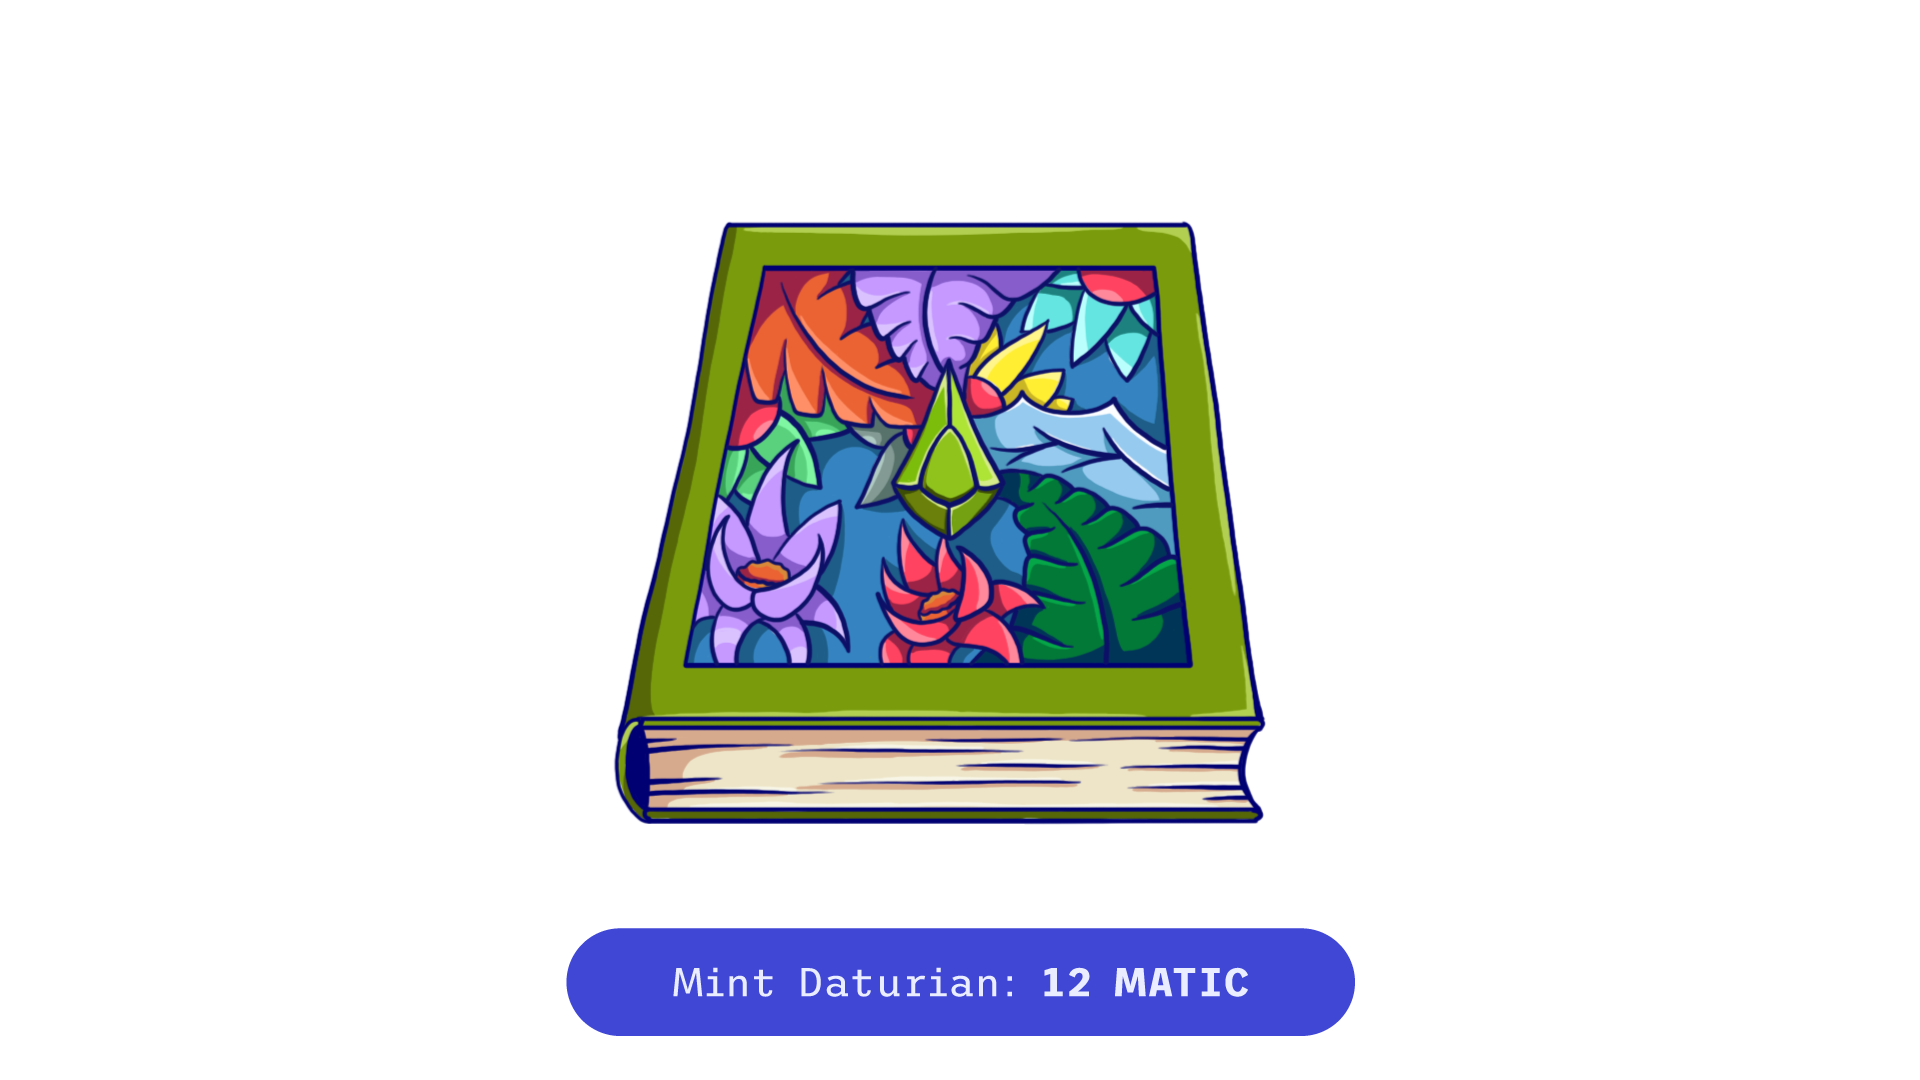
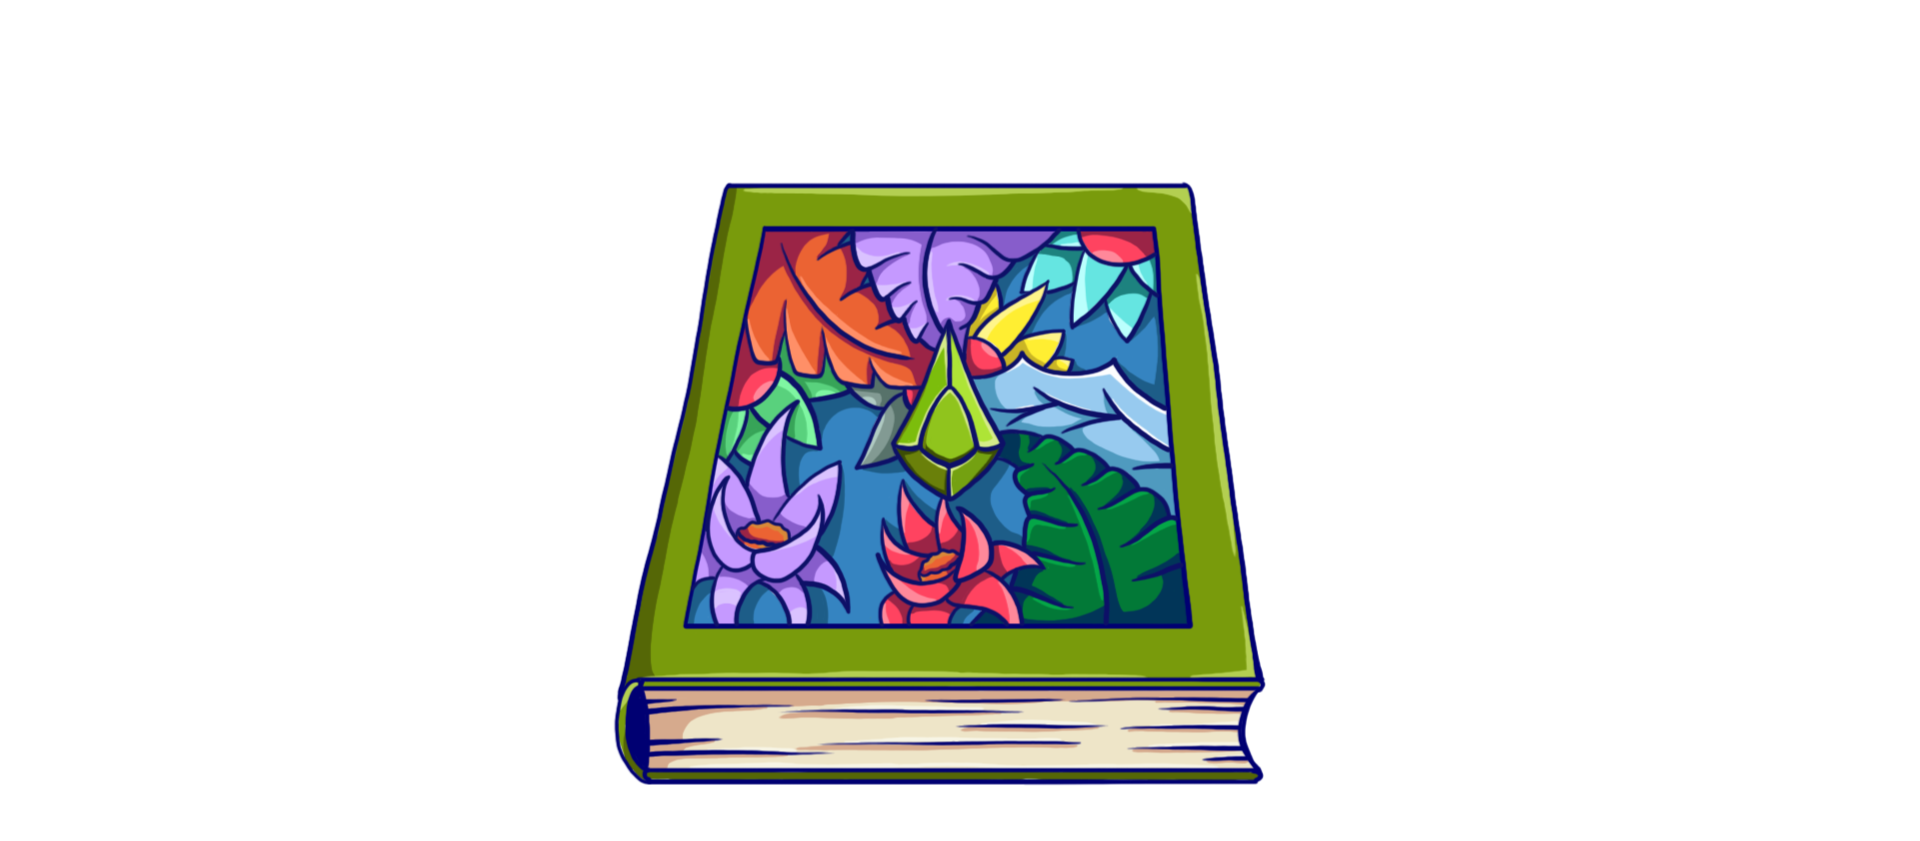
mint page css

Changed region(s): [[0.2812, 0.1855, 0.7188, 0.9584]]

diff --git a/src/templates/MintDapp.tsx b/src/templates/MintDapp.tsx
@@ -25,9 +25,7 @@ const MintDapp = () => {
   const data = useAppSelector((state: any) => state.data);
   const [claimingNft, setClaimingNft] = useState(false);
   const [connectedState, setConnectedState] = useState(false);
-  const [feedback, setFeedback] = useState(
-    `Click "MINT" to mint your DATURIANS NFT.`
-  );
+  const [feedback, setFeedback] = useState(`Price: 12 MATIC`);
   const [mintAmount, setMintAmount] = useState(1);
   const [isHovering, setIsHovered] = useState(false);
 
@@ -72,7 +70,7 @@ const MintDapp = () => {
     const totalGasLimit = String(gasLimit * mintAmount);
     const maxPriorityFee = String(MintConfig.MAX_PRIORITY_FEE);
     const maxFeeGas = String(MintConfig.MAX_FEE_PER_GAS);
-    setFeedback(`Minting your ${MintConfig.NFT_NAME}...`);
+    setFeedback(`Minting ${MintConfig.NFT_NAME}...`);
     setClaimingNft(true);
     blockchain.smartContract.methods
       .mint(mintAmount)
@@ -85,13 +83,13 @@ const MintDapp = () => {
         value: totalCostWei,
       })
       .once('error', (_err: any) => {
-        setFeedback('Oopsy, something went wrong! Please try again.');
+        setFeedback('Oopsy, doopsy');
         setClaimingNft(false);
       })
       .then((receipt: any) => {
         console.log(receipt);
         setFeedback(
-          `Congrats, the ${MintConfig.NFT_NAME} is yours! go visit Opensea.io to view it.`
+          `Congrats, the ${MintConfig.NFT_NAME} is yours! Visit Opensea.io to view it.`
         );
         setClaimingNft(false);
         dispatch(fetchData(blockchain.account));
@@ -172,34 +170,48 @@ const MintDapp = () => {
                 alt="book"
                 className="book"
                 // src={logImages[0]}
-                onClick={(e) => {
-                  if (connectedState === false) {
-                    setIsHovered(true);
-                    e.preventDefault();
-                    web3Modal.clearCachedProvider();
-                    web3Modal
-                      .connect()
-                      .then((connectedProvider) => {
-                        console.log(connectedProvider);
-                        dispatch(connect(connectedProvider));
-                        getData();
-                        setConnectedState(true);
-                      })
-                      .catch((err: any) => {
-                        console.log(err);
-                        setFeedback(
-                          'It seems that user closed the WalletConnect pop-up.'
-                        );
-                        setIsHovered(false);
-                        setConnectedState(false);
-                        setClaimingNft(false);
-                      });
-                  } else {
-                    e.preventDefault();
-                    console.log('already connected');
-                  }
-                }}
               />
+
+              {!connectedState ? (
+                <div className="flex justify-center mint-state">
+                  <button
+                    className="font-bold mt-4 bg-dark text-white rounded shadow-lg mint-button"
+                    onClick={(e) => {
+                      if (connectedState === false) {
+                        setIsHovered(true);
+                        e.preventDefault();
+                        web3Modal.clearCachedProvider();
+                        web3Modal
+                          .connect()
+                          .then((connectedProvider) => {
+                            console.log(connectedProvider);
+                            dispatch(connect(connectedProvider));
+                            getData();
+                            setConnectedState(true);
+                          })
+                          .catch((err: any) => {
+                            console.log(err);
+                            setFeedback(
+                              'It seems that user closed the WalletConnect pop-up.'
+                            );
+                            setIsHovered(false);
+                            setConnectedState(false);
+                            setClaimingNft(false);
+                          });
+                      } else {
+                        e.preventDefault();
+                        console.log('already connected');
+                      }
+                    }}
+                  >
+                    Connect wallet
+                  </button>
+                </div>
+              ) : (
+                <div className="flex justify-center dingles">
+                  <button></button>
+                </div>
+              )}
             </a>
           </div>
           <div className="responsive-wrapper">
@@ -233,32 +245,34 @@ const MintDapp = () => {
                       ) : null}
                     </div>
                   ) : (
-                    <div className="flex justify-center">
-                      <p className="mint-description">{feedback}</p>
-                      <div>
-                        <button
-                          className="btn btn-regular mint-styled-button-round"
-                          disabled={!!claimingNft}
-                          onClick={(e) => {
-                            e.preventDefault();
-                            decrementMintAmount();
-                          }}
-                        >
-                          -
-                        </button>
-                        <p className="mint-description">{mintAmount}</p>
-                        <button
-                          className="btn btn-regular mint-styled-button-round"
-                          disabled={!!claimingNft}
-                          onClick={(e) => {
-                            e.preventDefault();
-                            incrementMintAmount();
-                          }}
-                        >
-                          +
-                        </button>
+                    <div className="justify-center">
+                      <div className="flex justify-center">
+                        <p className="mint-description">{feedback}</p>
+                        <div className="mint-numbers">
+                          <button
+                            className="btn btn-regular mint-styled-button-round"
+                            disabled={!!claimingNft}
+                            onClick={(e) => {
+                              e.preventDefault();
+                              decrementMintAmount();
+                            }}
+                          >
+                            -
+                          </button>
+                          <p className="mint-description">{mintAmount}</p>
+                          <button
+                            className="btn btn-regular mint-styled-button-round"
+                            disabled={!!claimingNft}
+                            onClick={(e) => {
+                              e.preventDefault();
+                              incrementMintAmount();
+                            }}
+                          >
+                            +
+                          </button>
+                        </div>
                       </div>
-                      <div>
+                      <div className="main-mint-btn">
                         <button
                           className="btn btn-regular mint-styled-button"
                           disabled={!!claimingNft}

diff --git a/src/styles/global.css b/src/styles/global.css
@@ -175,6 +175,8 @@ button:disabled .btn-road-percent-ongoing {
  }
 .floraweek img {
   width: 25%;
+  height: 100%;
+  object-fit: cover;
  }
 .floraweek h1 {
   width: 75%;
@@ -541,6 +543,33 @@ button:disabled .btn-road-percent-ongoing {
 .mobile-merch .btn {
   color: #E9EDFF;
 }
+.mint-number {
+  font-weight: 600;
+}
+.disclaimer {
+  text-align: center;
+  color: #4147d5;
+  margin-top: 20px;
+}
+.mint-button {
+  padding: 10px;
+  width: 40%;
+  margin: auto;
+  display: block;
+  margin-top: 20px;
+}
+.mint-button:hover {
+  background-color: #aafc0d;
+  color: #4147d5;
+}
+.mint-numbers {
+  display: flex;
+  margin-left: 20px;
+}
+.mint-numbers .btn {
+  height: 40px;
+  margin: 10px;
+}
 @media only screen and (max-width: 1023px) {
   div[id^='headlessui-menu-items-'] .btn-hero {
     font-size: 20px !important;
@@ -816,6 +845,16 @@ button:disabled .btn-road-percent-ongoing {
     }
 }
 @media only screen and (max-width: 640px) {
+  .book {
+    width: 70%;
+    transition: width 0.5s;
+    transition: height 0.5s;
+    margin: auto;
+  }
+  .book:hover {
+    width: 69%;
+    transition: .3s ease-in-out;
+  }
   .p-12 {
     padding: 2rem !important;
   }
@@ -1217,9 +1256,15 @@ div. responsive-wrapper @media (min-width: 767px) {
 }
 
 .book {
-  width: 600px;
+  width: 60%;
   transition: width 0.5s;
   transition: height 0.5s;
+  margin: auto;
+  transition: .3s ease-in-out;
+}
+.book:hover {
+  width: 59%;
+  transition: .3s ease-in-out;
 }
 .book   @media (min-width: 767px) {
   width: 700px;
@@ -1230,9 +1275,6 @@ div. responsive-wrapper @media (min-width: 767px) {
   cursor: default;
 }
 
-.book {
-
-}
 /* .book:hover {
   background-position: center;
   background-size: cover;
@@ -1254,6 +1296,10 @@ div. responsive-wrapper @media (min-width: 767px) {
   background-color: #D8DFFC;
   padding: 20px;
   border-radius: 0.375rem;
+  width: 50%;
+  overflow: hidden;
+  text-overflow: ellipsis;
+  text-align: center;
 }
 .opensea {
   color: #FF4360 !important;
@@ -1266,19 +1312,34 @@ div. responsive-wrapper @media (min-width: 767px) {
 .mint-number {
   font-size: 26px !important;
 }
-
-p .mint-description {
-  color: var(--primary-text);
+.mint-description {
+  color: #4147d5;
   font-size: 16px;
   line-height: 1.6;
-  textAlign: center,
+  display: flex;
+  align-items: center;
+  font-weight: 600;
 }
-p .mint-find-description {
+.mint-numbers .btn-regular:hover {
+  background-color: #aafc0d;
+  color: #4147d5;
+  transition: .3s ease-in-out;
+}
+.mint-find-description {
   textAlign: center; 
   color: var(--accent-text);
 }
-
-p .mint-text-title {
+.mint-styled-button {
+  width: 40%;
+  display: block;
+  margin: auto;
+}
+.mint-styled-button:hover {
+  background-color: #aafc0d;
+  color: #4147d5;
+  transition: .3s ease-in-out;
+}
+.mint-text-title {
   color: var(--primary-text);
   font-size: 22px;
   font-weight: 500;

diff --git a/src/templates/Calendar.tsx b/src/templates/Calendar.tsx
@@ -1,9 +1,9 @@
 const Calendar = () => {
   const date = new Date();
   const locale = 'en-GB';
-  const month = date.toLocaleString('default', { month: 'long' });
+  const month = date.toLocaleString('default', { month: 'short' });
   const day = date.getDate();
-  const weekday = date.toLocaleDateString(locale, { weekday: 'long' });
+  const weekday = date.toLocaleDateString(locale, { weekday: 'short' });
 
   return (
     <div className="text-center flex flex-col p-4 sm:text-left sm:flex-row sm:items-center sm:justify-center sm:p-8 bg-primary-100 rounded-md col-span-1">
